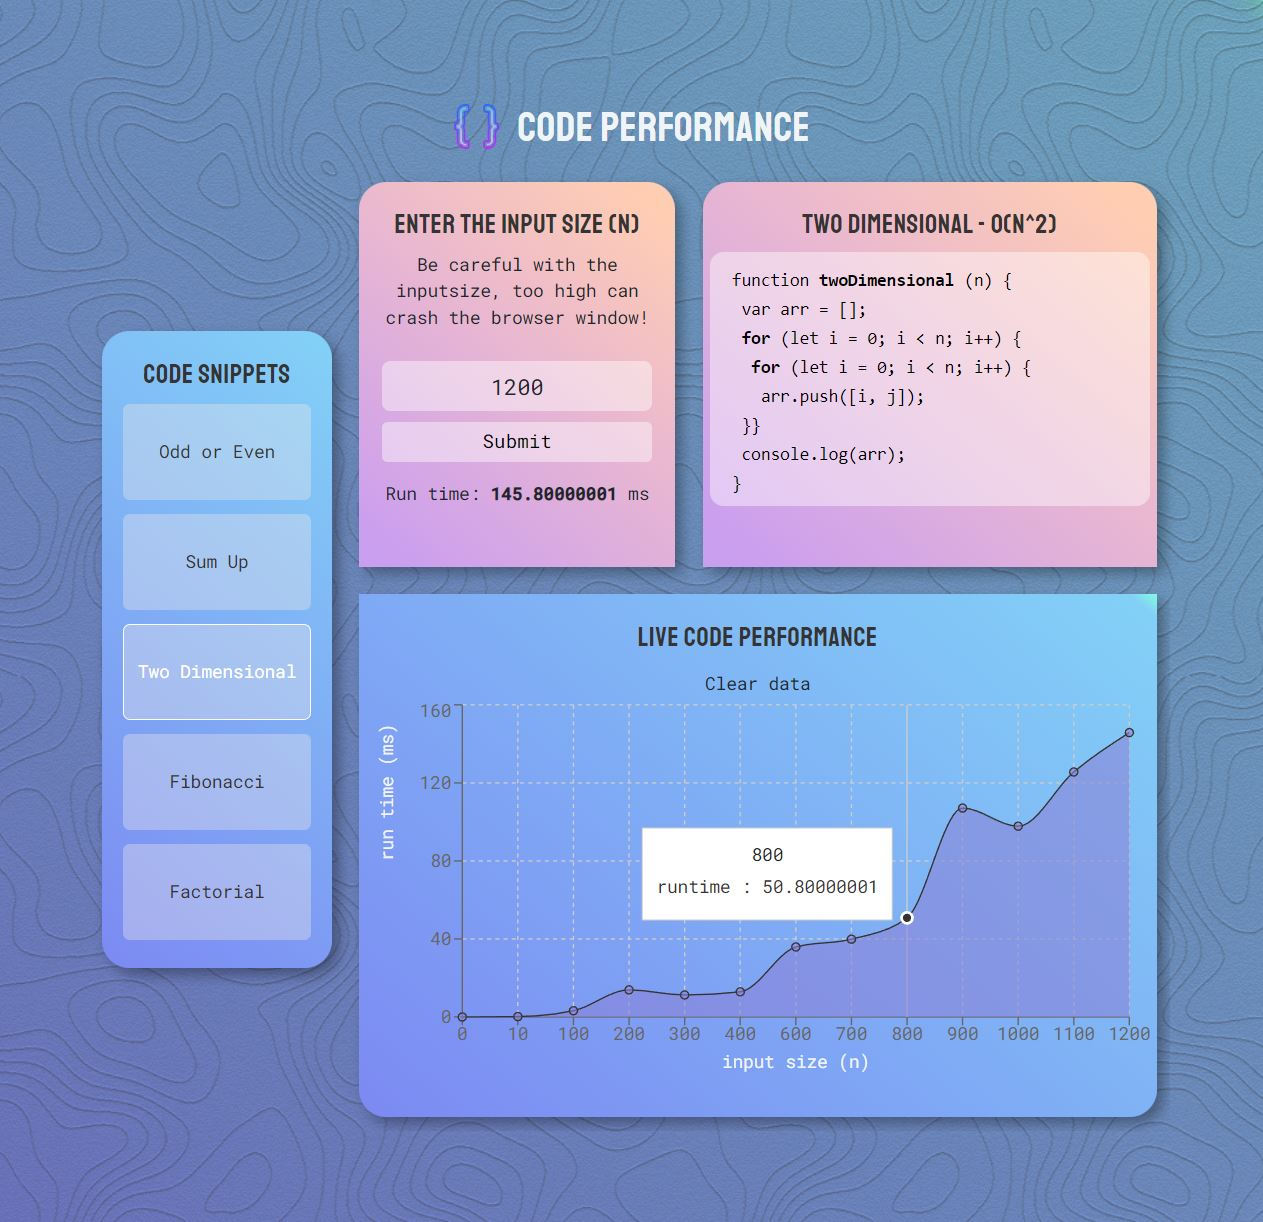
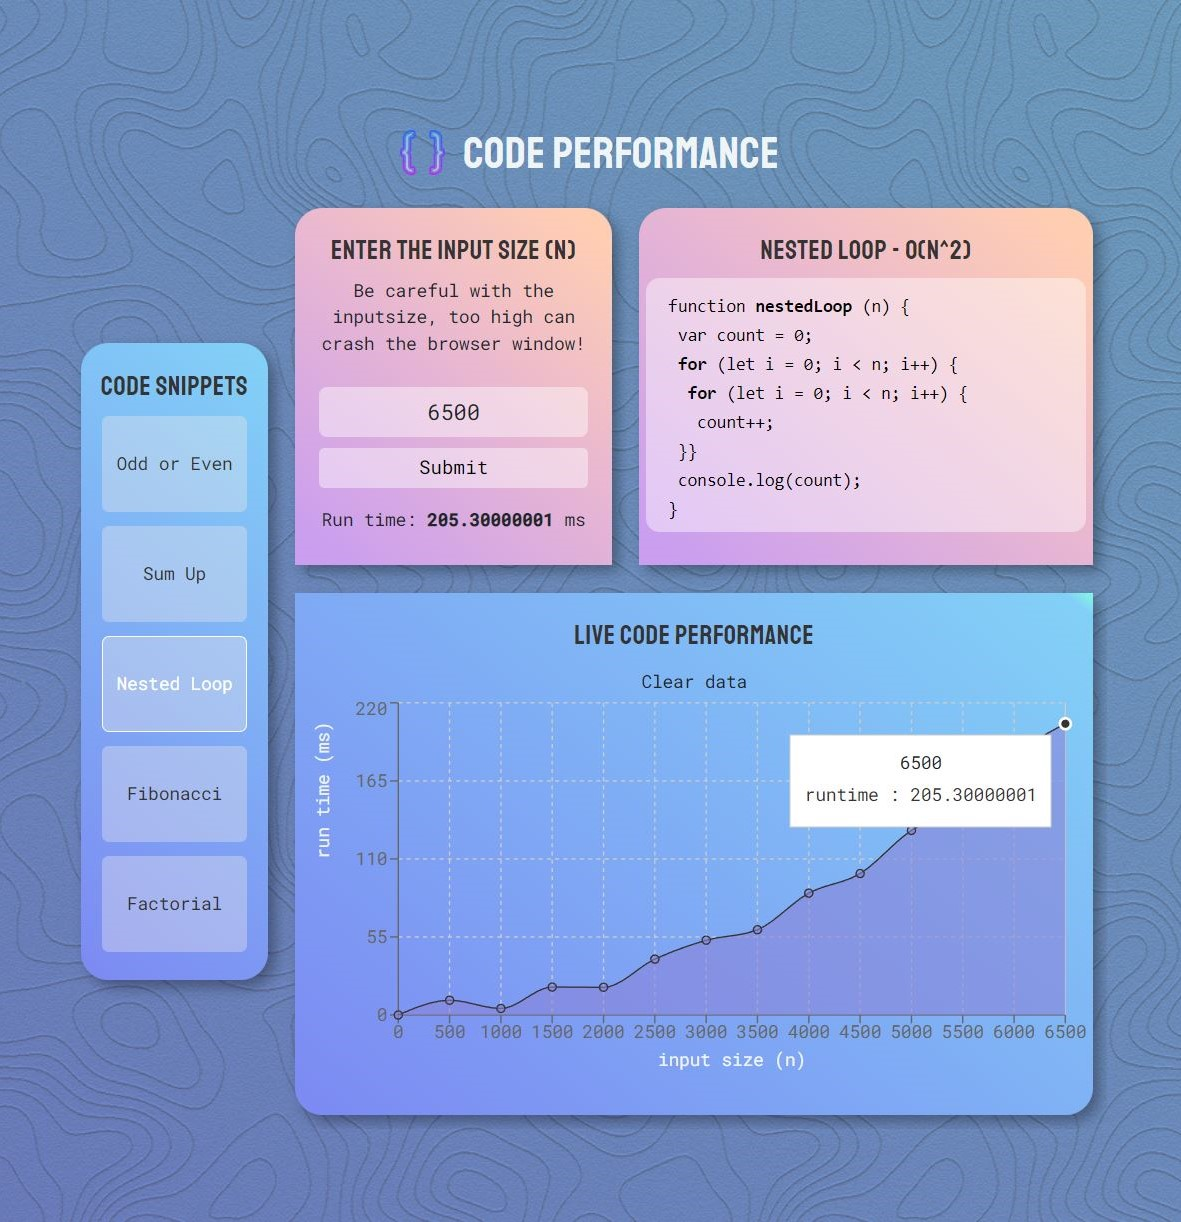
Fix fibonacci code issue + update README

Changed region(s): [[0.061, 0.0622, 0.945, 0.9329], [0.4877, 0.4975, 0.7011, 0.5908], [0.9754, 0.0, 1.0, 0.0311]]

diff --git a/src/components/app/App.js b/src/components/app/App.js
@@ -6,7 +6,7 @@ import List from '../list/List';
 import Snippet from '../snippet/Snippet';
 import './App.css';
 import icon from './icon.png'
-import { oddEvenNumber, sumUp, twoDimensionalArray, fibonacci, factorial } from './snippetFunctions.js';
+import { oddEvenNumber, sumUp, nestedLoop, fibonacci, factorial } from './snippetFunctions.js';
 
 const snippets = [
   {
@@ -34,29 +34,27 @@ const snippets = [
     func: sumUp
   },
   {
-    title: "Two Dimensional",
-    code: <code>function <b>twoDimensional</b> (n) &#123;<br />
-      &nbsp;var arr = [];<br />
+    title: "Nested Loop",
+    code: <code>function <b>nestedLoop</b> (n) &#123;<br />
+      &nbsp;var count = 0;<br />
       &nbsp;<b>for</b> (let i = 0; i &#60; n; i++) &#123;<br />
       &nbsp;&nbsp;<b>for</b> (let i = 0; i &#60; n; i++) &#123;<br />
-      &nbsp;&nbsp;&nbsp;arr.push([i, j]);<br />
+      &nbsp;&nbsp;&nbsp;count++;<br />
       &nbsp;&#125;&#125;<br />
-      &nbsp;console.log(arr);<br />
+      &nbsp;console.log(count);<br />
       &#125;</code>,
     o: "O(n^2)",
-    func: twoDimensionalArray
+    func: nestedLoop
   },
   {
     title: "Fibonacci",
     code: <code>function <b>fibonacci</b> (n) &#123;<br />
-      &nbsp;var arr = [];<br />
-      &nbsp;let n1 = 0, n2 = 1, nextTerm;<br />
-      &nbsp;<b>for</b> (let i = 0; i &#60; n; i++) &#123;<br />
-      &nbsp;&nbsp;arr.push(n1);<br />
-      &nbsp;&nbsp;nextTerm = n1 + n2;<br />
-      &nbsp;&nbsp;n1 = n2;<br />
-      &nbsp;&nbsp;n2 = nextTerm;<br />
-      &nbsp;&#125;&#125;</code>,
+      &nbsp;<b>if</b> (n &#60;= 1) &#123;<br />
+      &nbsp;&nbsp;return 1;<br />
+      &nbsp;&#125;<br />
+      &nbsp;return fibonacciRec(num - 1) +<br />
+      &nbsp;fibonacciRec(num - 2);<br />
+      &#125;</code>,
     o: "O(2^n)",
     func: fibonacci
   },

diff --git a/src/components/app/snippetFunctions.js b/src/components/app/snippetFunctions.js
@@ -24,18 +24,18 @@ function sumUp(n) {
     return (parseFloat((endTime - startTime).toFixed(8)));
 }
 
-function twoDimensionalArray(n) {
+function nestedLoop(n) {
     var startTime = performance.now();
 
-    var arr = [];
+    var count = 0;
 
     for (var i = 0; i < n; i++) {
         for (var j = 0; j < n; j++) {
-            arr.push(`${i}, ${j}`);
+            count++;
         }
     }
 
-    console.log("[Two Dimensional]", arr);
+    console.log("[Nested Loop]", count);
 
     var endTime = performance.now();
     return (parseFloat((endTime - startTime).toFixed(8)));
@@ -45,21 +45,16 @@ function twoDimensionalArray(n) {
 function fibonacci(n) {
     var startTime = performance.now();
 
-    var arr = [];
-    let n1 = 0, n2 = 1, nextTerm;
-
-    for (let i = 1; i <= n; i++) {
-        arr.push(n1);
-        nextTerm = n1 + n2;
-        n1 = n2;
-        n2 = nextTerm;
-    }
-
-    console.log("[Fibonacci]", arr);
+    console.log("[Fibonacci] last number:", fibonacciRec(n - 1));
 
     var endTime = performance.now();
     return (parseFloat((endTime - startTime).toFixed(8)));
 }
+function fibonacciRec(num) {
+    if (num <= 1) return 1;
+    return fibonacciRec(num - 1) + fibonacciRec(num - 2);
+}
+
 
 function recursive(n) {
     for (var i = 0; i < n; i++) {
@@ -76,4 +71,4 @@ function factorial(n) {
     return (parseFloat((endTime - startTime).toFixed(8)));
 }
 
-export { oddEvenNumber, sumUp, twoDimensionalArray, fibonacci, factorial };
+export { oddEvenNumber, sumUp, nestedLoop, fibonacci, factorial };

diff --git a/src/components/snippet/snippet.css b/src/components/snippet/snippet.css
@@ -44,7 +44,7 @@
 @media (min-width: 800px) {
   .Snippet {
     width: 350px;
-    height: 300px;
+    height: 280px;
   }
   .Snippet .code-snippet {
     border-top-left-radius: 20px;

diff --git a/src/components/input/input.css b/src/components/input/input.css
@@ -51,7 +51,7 @@ button.form-control:hover {
 
 @media (min-width: 800px) {
   .Input {
-    height: 300px;
+    height: 280px;
     width: 250px;
     padding: 10px;
   }

diff --git a/README.md b/README.md
@@ -1,6 +1,6 @@
 # Code Performance
 
-Run code snippets live in your browser. Give an input size (n) and calulate the runtime in miliseconds, displayed in a graph.
+Run code snippets live in your browser. Give an input size (n) and calulate the runtime (miliseconds), displayed in a graph.
 
 - React frontend framework
 - ReCharts library for the graph
@@ -10,13 +10,16 @@ Run code snippets live in your browser. Give an input size (n) and calulate the 
 For a medium-to-highend pc
 
 1. Odd/Even: `n ≥ 0`
-2. Sum Up: `0 ≥ n ≤ 30.000.000`
-3. Two Dimensional: `0 ≥ n ≤ 4.000`
-4. Fibonacci: `0 ≥ n ≤ 10.000.000`
+2. Sum Up: `0 ≥ n ≤ 50.000.000`
+3. Nested Loop: `0 ≥ n ≤ 40.000`
+4. Fibonacci: `0 ≥ n ≤ 45`
 5. Factorial: `0 ≥ n ≤ 12`
 
 ## Screenshot
 
+Application for desktop devices and mobile devices.
+
 <p align="center">
-    <img alt="screenshot of the code performance application" src="./screenshot.jpg"/>
+    <img alt="code performance application for desktop" width="66.15%" src="./screenshot.jpg"/>
+    <img alt="code performance application for mobile"  width="32%" src="./screenshotmobile.jpg"/>
 </p>
